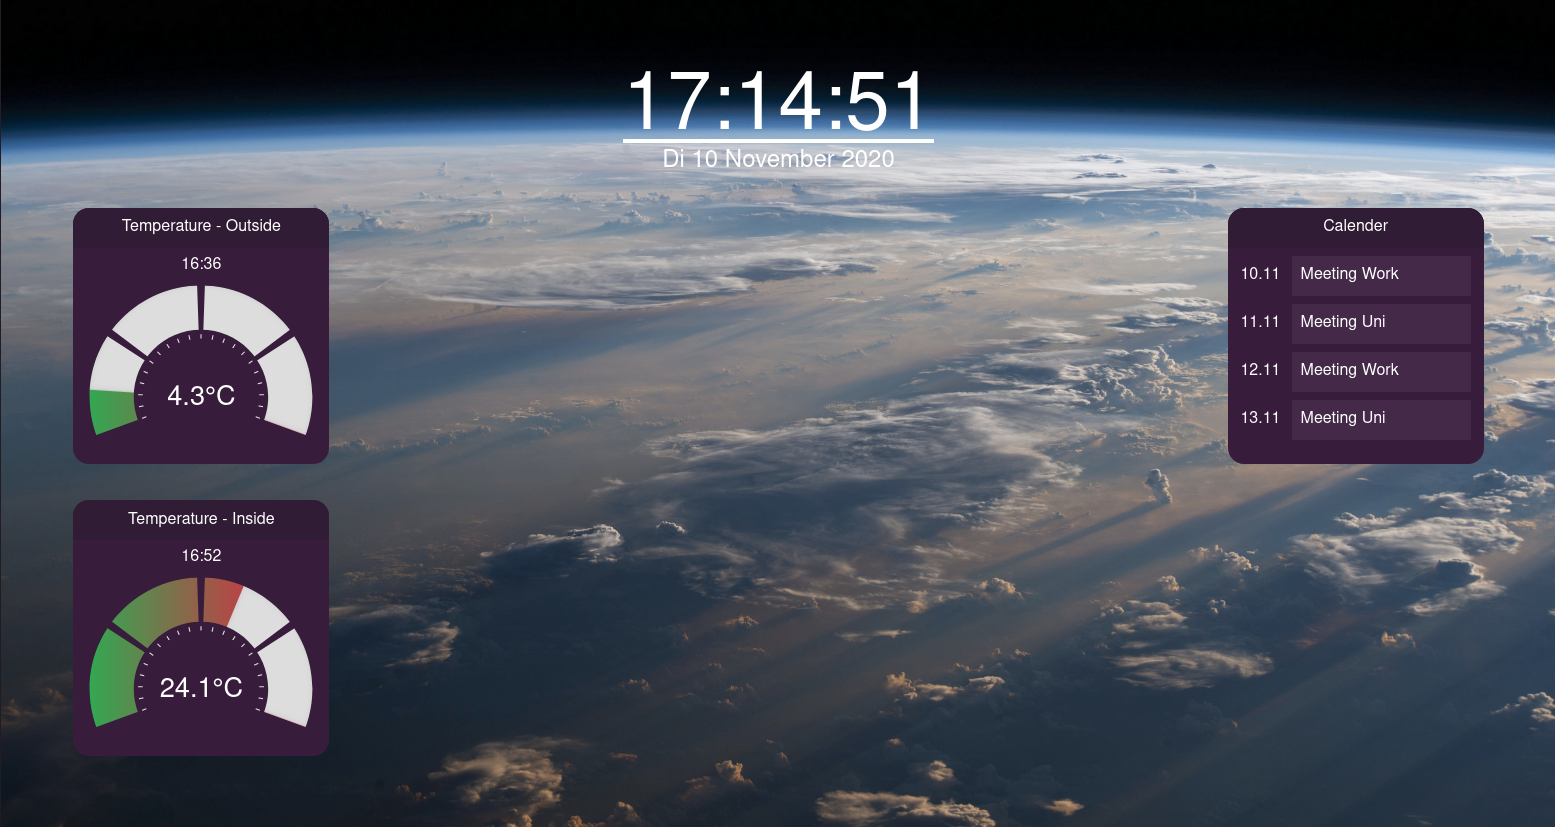
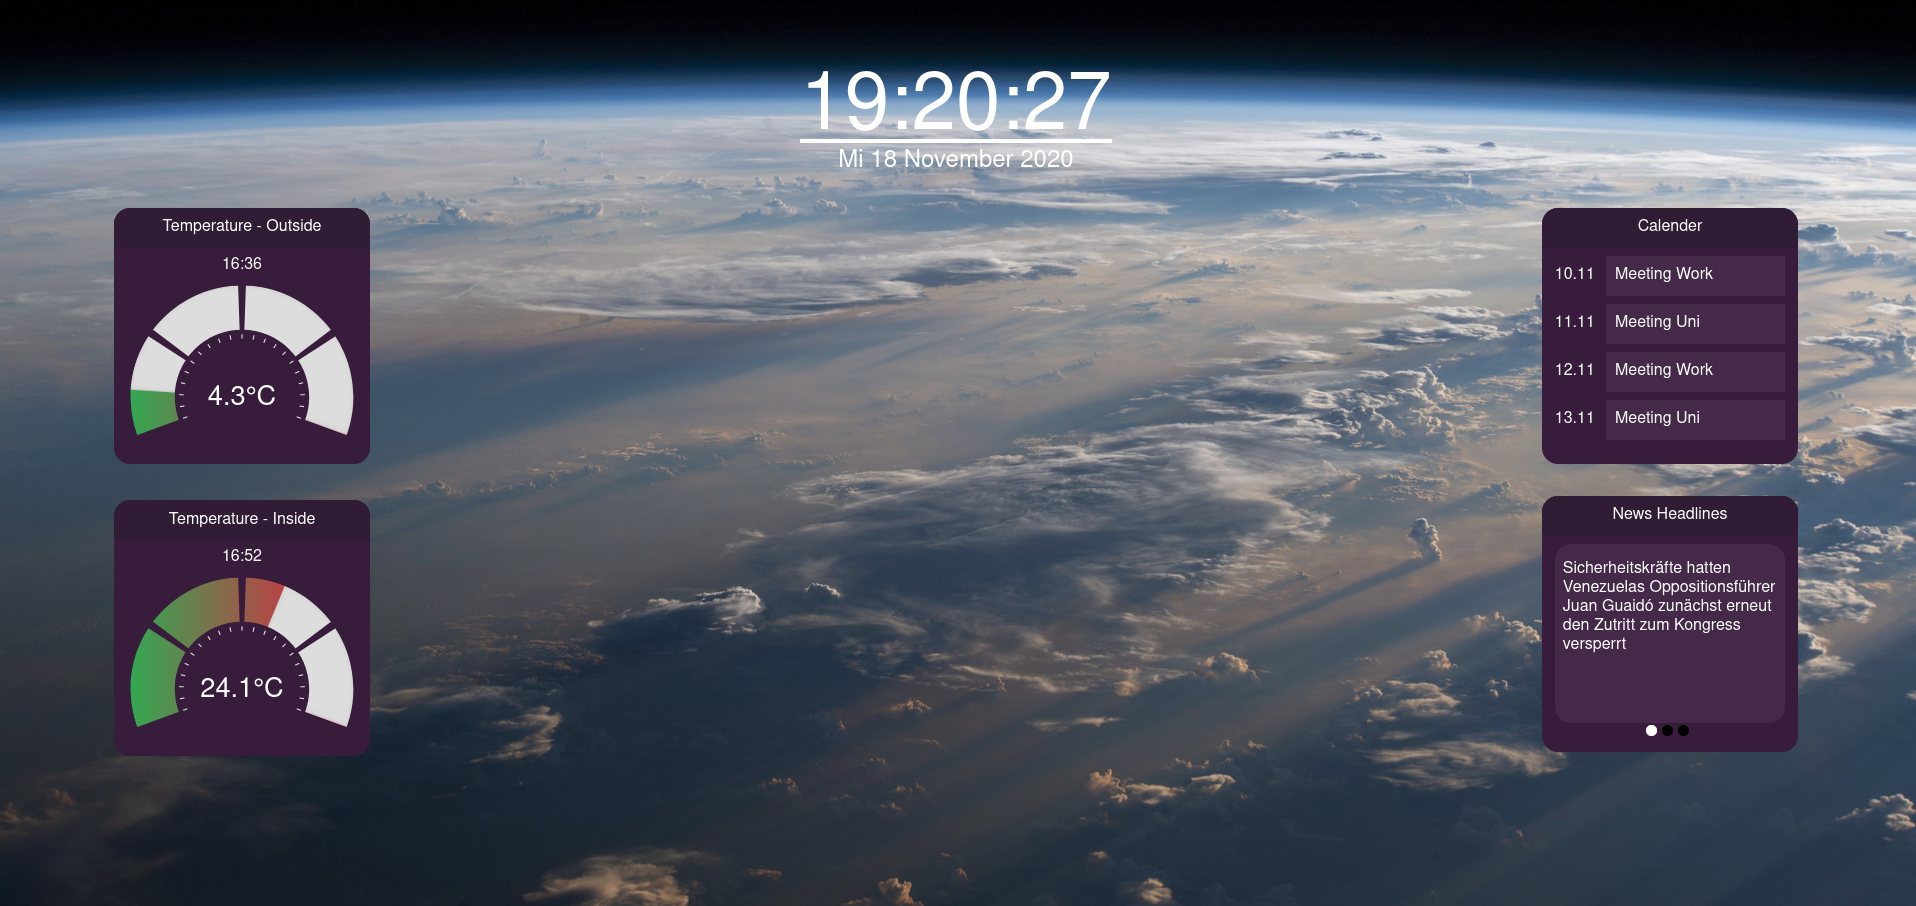
updated preview image

diff --git a/smart-display-frontend/src/components/news/NewsWidget.vue b/smart-display-frontend/src/components/news/NewsWidget.vue
@@ -75,7 +75,7 @@ export default {
         switchHeadline: function() {
            let nextHeadline = this.currentHeadline + 1;
 
-           if(nextHeadline >= 2) {
+           if(nextHeadline > 2) {
                nextHeadline = 0;
            }
            this.pages[nextHeadline].status = true
